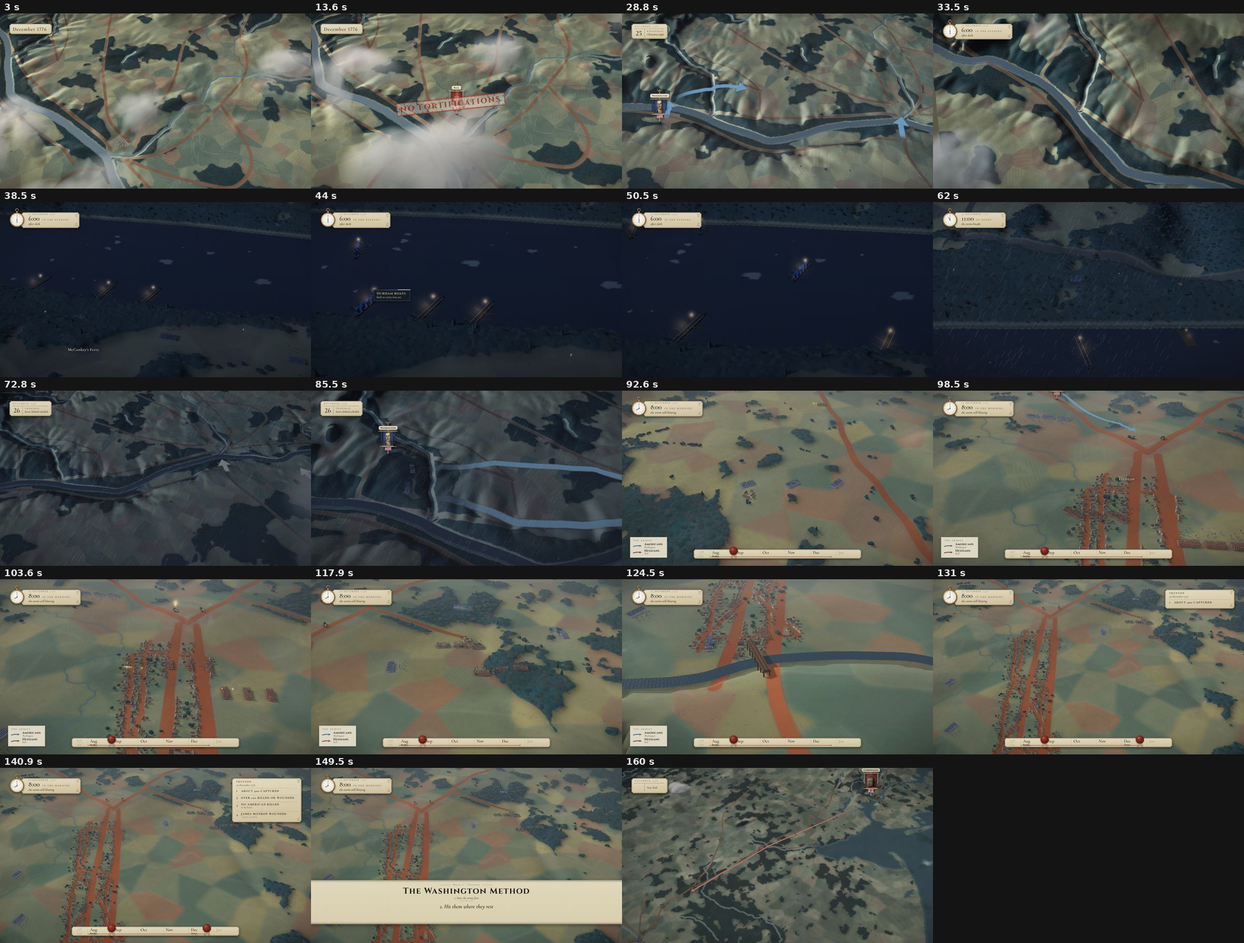
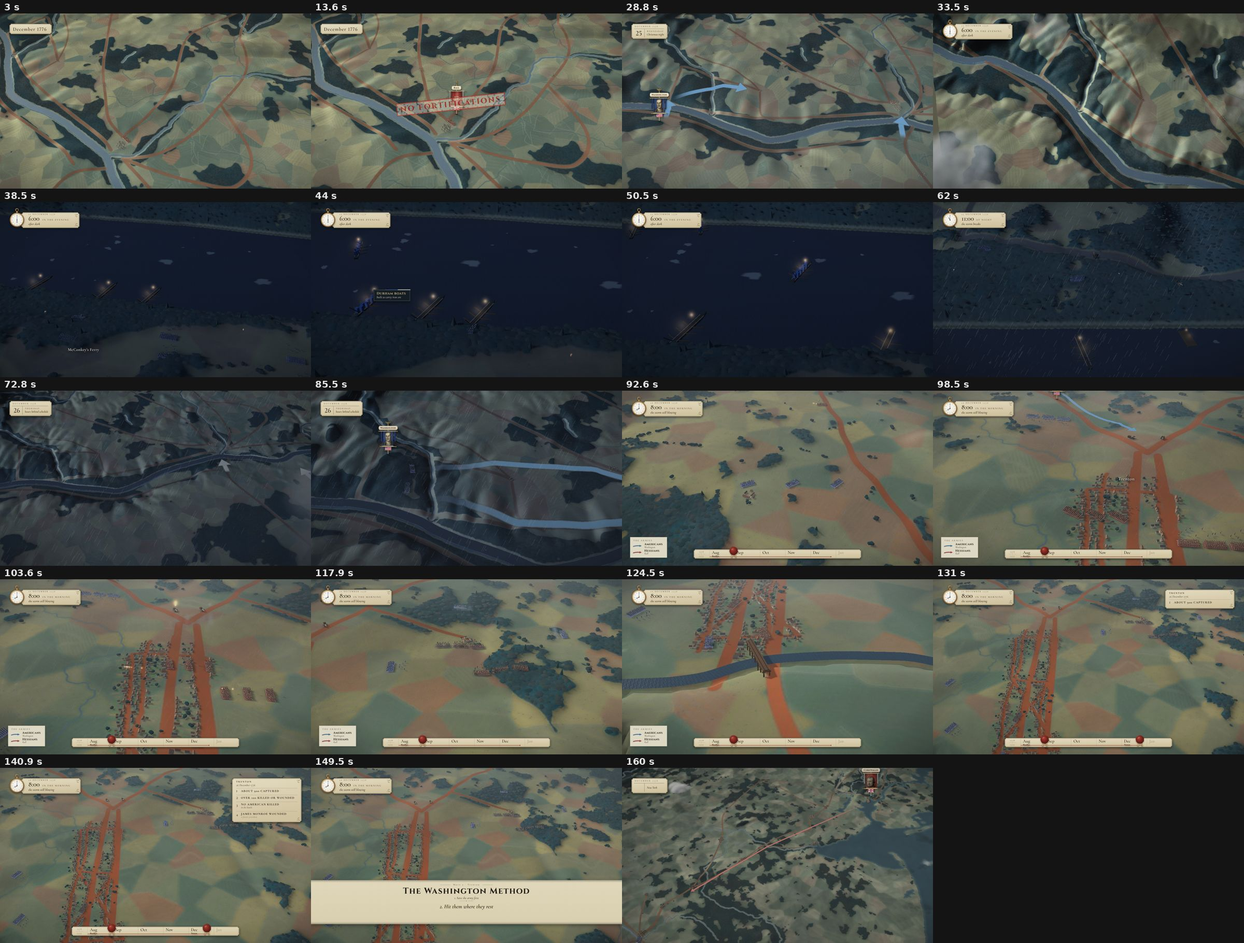
Washington v2: round-1 fixes S05 S07
Claude-Session: https://claude.ai/code/session_011uJnjBmWWPVu63DLzFZfyj

diff --git a/washington/sequences/S05/seq.js b/washington/sequences/S05/seq.js
@@ -340,7 +340,7 @@ window.SEQ = {
             off: { warm: 0.05, emerge: 0.1, clear: 0.28, haze: 0.85 },   // round 1 (critic A): shorter flat grey
             from: { region: JE, at: [640, 990], dist: 150, tilt: 44, yaw: -40, night: 0.32 },
             to: { region: CR, at: at(-2.0, -3.4, -0.6), dist: 18, tilt: 57, yaw: -36, fov: 30, night: NI } }],
-  clouds: { [JE]: { scatter: { seed: 9, box: [560, 874, 220, 255], n: 9, med: 40 }, diveClear: 60, keepClear: [[680, 1020, 50, 1, 1.0], [620, 990, 40, 1, 0.95], [650, 1015, 45, 1, 0.95]] }, [CR]: { shadows: false }, [TR]: { shadows: false },
+  clouds: { [JE]: { scatter: { seed: 9, box: [560, 874, 220, 255], n: 9, med: 40 }, diveClear: 60, keepClear: [[680, 1020, 50, 1, 1.0], [672, 1050, 60, 1, 1.0], [620, 990, 40, 1, 0.95], [650, 1015, 45, 1, 0.95]] }, [CR]: { shadows: false }, [TR]: { shadows: false },
             [CO]: { scatter: { seed: 11, n: 24, med: 15 }, keepClear: [[500, 380, 120, 1, 0.8], [360, 480, 110, 1, 0.9]] } },
   units, arrows, banners, boats, fx, generals, labels,
   overlay: [

diff --git a/washington/sequences/S05/NOTES.md b/washington/sequences/S05/NOTES.md
@@ -85,3 +85,15 @@ Trenton approach camera 3-4 u south (Greene's blocks out of the timeline band). 
 Deviation: the jersey night-march shot runs night 0.85 (at 1.0 the troopScale-3.5 blocks vanish on the dark ground).
 Checks: jersey 68-88 clean; crossing: landing blocks 16-23 deg on screen (oblique camera); trenton 88-128: turn spikes only at the 95.4 cut,
 Sullivan's u4 67 deg on screen at 88-92 (mostly off frame); side gap 0 / 0.
+
+## V2 round 1 fixes (critics A 6.3 / B 8.2)
+- One block per unit everywhere in Trenton: Greene's leading brigade = 3 single blocks (moved west of the guns' run: no overlap), the
+  Hessians = 3 single blocks per street group (King St group west, Queen St group east), each with the same moves; Knox's guns face along
+  their run; Greene's / Sullivan's single blocks run straight, faced along the run (Sullivan's 67 deg is while he is off frame).
+- Volleys sit on the v14 blocks: Hessian street volley across each group (103.5 / 103.6); the picket moved into the 8 a.m. frame
+  ([1338.0, 2028.0]) so "Hessian outposts" shows a Hessian firing (92.5); surrender volleys muzzle x1.6 (readable flashes).
+- Red pulse at Trenton removed; jersey clouds kept off the river and Trenton (diveClear 60, keepClear Trenton / river / the plan arrows);
+  dive approach yaw -60 -> -40 (no world edge at 33.5); head-of-town shot tilt 58 (no Hessian in the timeline band).
+- Ledger rows on their words: "About 900 captured" on "captured", "Over 100 killed or wounded" on "killed", "No American killed" on
+  "killed" + note "in the battle" on "battle", "a future president" on "future" (140.65), ledger out 142.2, method card from 142.5.
+- Checks: trenton 95.6-128 no overlaps; side gap 0 / 0.

diff --git a/washington/sequences/S07/NOTES.md b/washington/sequences/S07/NOTES.md
@@ -62,3 +62,14 @@ the Trenton night, jersey night 0.85 (blocks readable); Trenton dawn night <= 0.
 timeline hidden at 119.0 for the method card. Kept: decide `instant: true` at t 0 (no negative times), cues in word gaps.
 Checks: princeton 46.5-83.5 turns <= 45 deg/s, no overlaps (residual: the leftmost red block 54 deg on screen at its 46 s entrance under the
 dissolve, front-vs-velocity 21-26 deg on the outer blocks); jersey: Mawhood 32 deg world (8 on screen); side gap 0 / 0.
+
+## V2 round 1 fixes (critics A 6.3 / B 8.2)
+- Nassau Hall shot at the v14 framing (dist 18-18.5, tilt 52.5-53; was 9-9.5) with the `bw` / `bd` overrides removed (the British block,
+  the gun): blocks ~70 px, the gun clear of the timeline.
+- Mercer's banner fades out on "from under him" (no tilted fallen banner); THE MUD FROZE is a dark v8 plate (`label`), not a red stamp.
+- Clocks / notes on their words: 2:00 on "back road" (header "2 - 3 January 1777"), note "the roads froze" after "froze", 8:00 "an orchard"
+  on "orchard" (49.47); "college" label (was the unspoken "Nassau Hall"); Princeton seal at 5.4 (off "Jan").
+- Ledger rows on their words: note "killed, wounded or captured" on "killed", "Almost 200 prisoners" on "prisoner", note "died nine days
+  later" on "nine".
+- Checks: princeton 84.5-105 clean, 46.5-83.5 turns <= 45 deg/s; side gap 0 / 0. Not changed (sev 1): r0 entrance, militia 21-26 deg
+  front-vs-velocity (on-screen correction), the 84.0 dissolve (frozen frame).
